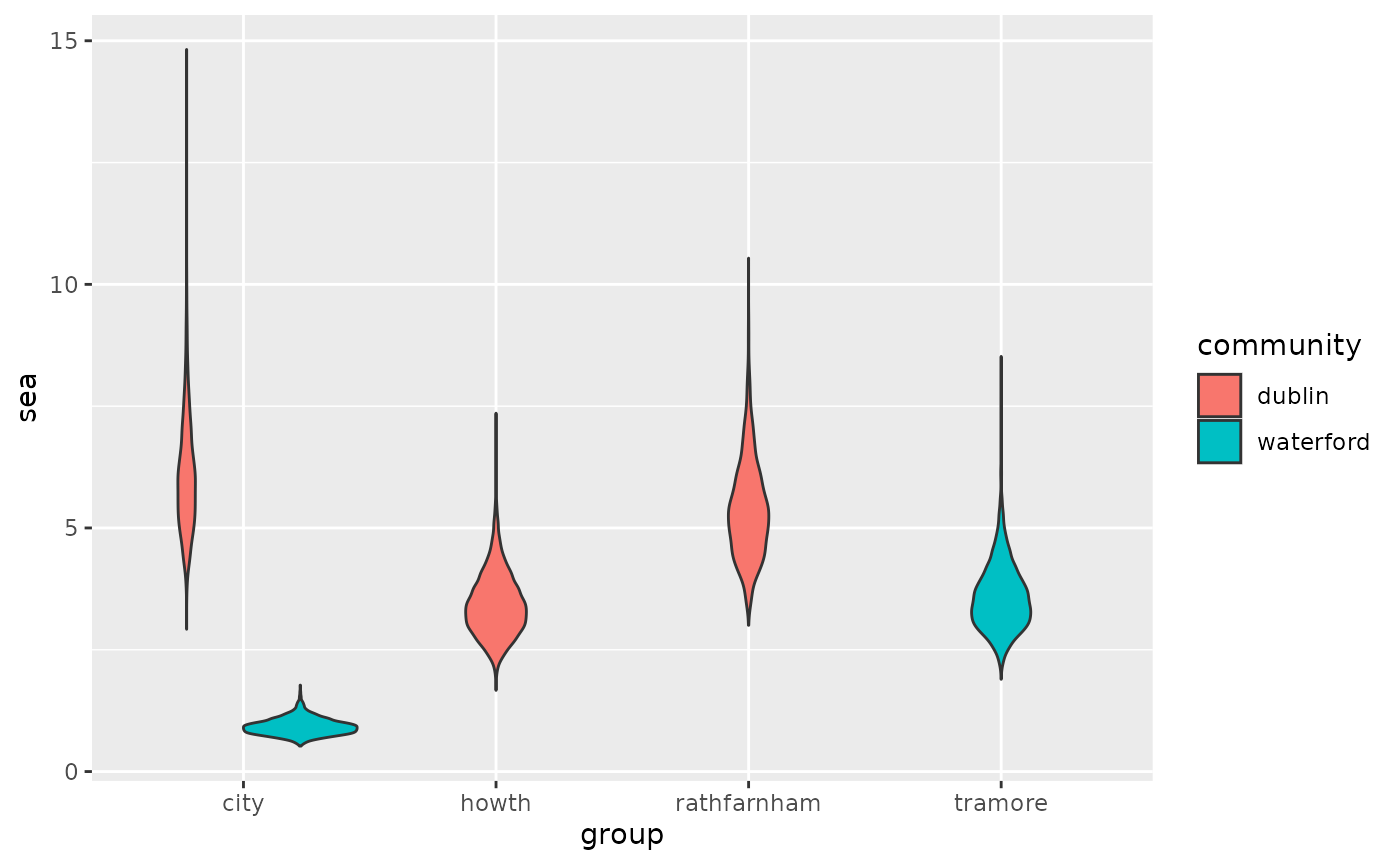
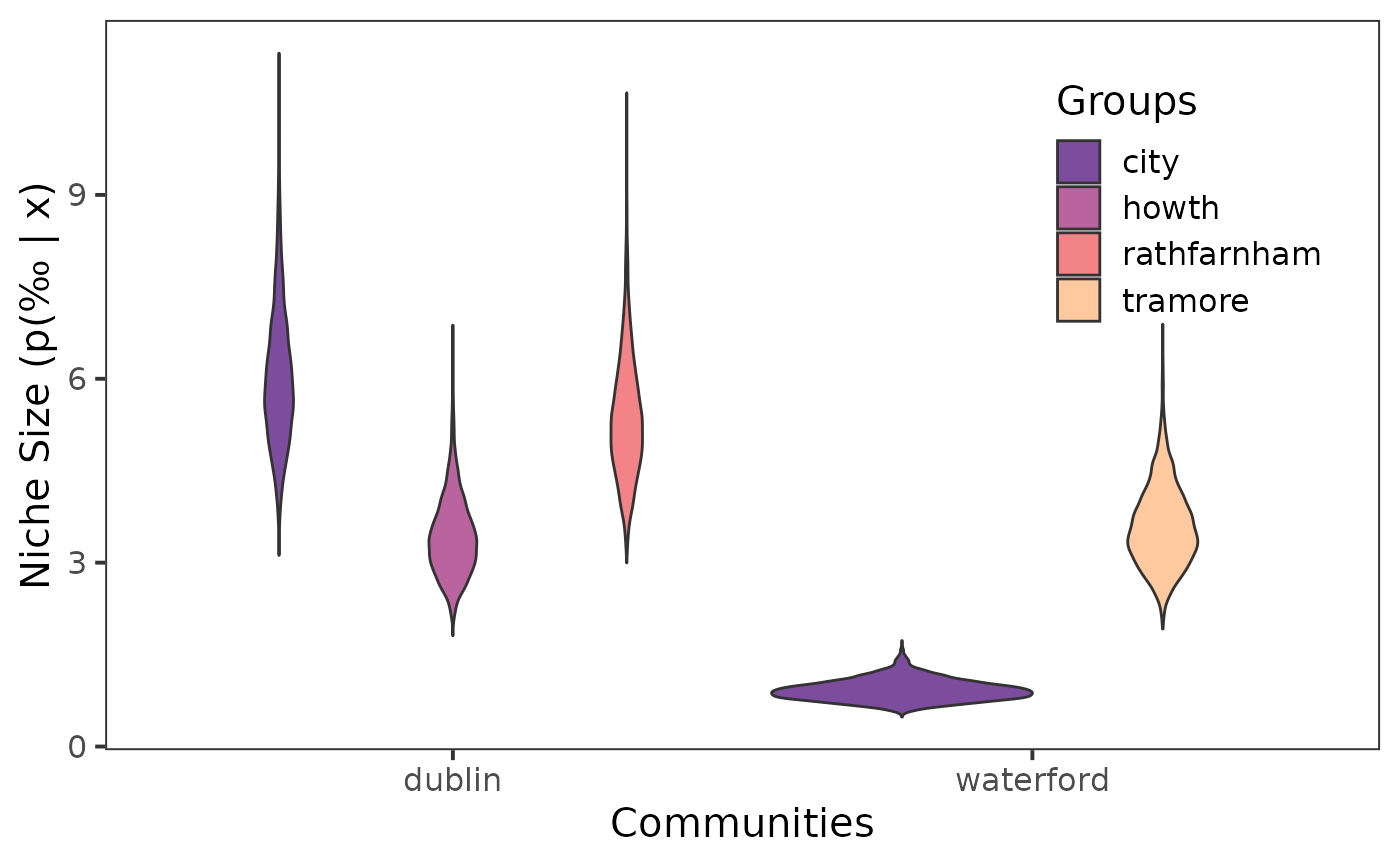
Deploying to gh-pages from @ benjaminhlina/nichetools@6e85442058f15033ed43161ef7a99a19c027c894 🚀

diff --git a/articles/using-nichetools-with-the-package-SIBER.html b/articles/using-nichetools-with-the-package-SIBER.html
@@ -399,17 +399,39 @@ level of the ellipse you can do so using the argument
 <div class="section level3">
 <h3 id="extract-niche-size">Extract Niche Size<a class="anchor" aria-label="anchor" href="#extract-niche-size"></a>
 </h3>
+<p>We can use <code><a href="https://rdrr.io/pkg/SIBER/man/siberEllipses.html" class="external-link">siberEllipses()</a></code> from {SIBER} to estimate
+niche size for each posterior sample for each community and group.</p>
 <div class="sourceCode" id="cb17"><pre class="downlit sourceCode r">
 <code class="sourceCode R"><span><span class="va">sea_b</span> <span class="op">&lt;-</span> <span class="fu"><a href="https://rdrr.io/pkg/SIBER/man/siberEllipses.html" class="external-link">siberEllipses</a></span><span class="op">(</span>corrected.posteriors <span class="op">=</span> <span class="va">ellipses_posterior</span><span class="op">)</span></span></code></pre></div>
+<p>Next using <code><a href="../reference/extract_niche_size.html">extract_niche_size()</a></code> from {nichetools} we can
+extract niche size which will also add in the correct names for the
+community and groups we are working with.</p>
 <div class="sourceCode" id="cb18"><pre class="downlit sourceCode r">
 <code class="sourceCode R"><span><span class="va">seb_convert</span> <span class="op">&lt;-</span> <span class="fu"><a href="../reference/extract_niche_size.html">extract_niche_size</a></span><span class="op">(</span>data <span class="op">=</span> <span class="va">sea_b</span>,</span>
 <span>                                  pkg <span class="op">=</span> <span class="st">"SIBER"</span>,</span>
 <span>                                  community_df <span class="op">=</span> <span class="va">cg_names</span><span class="op">)</span></span></code></pre></div>
+<p>Lastly, we can visualize the extracted niche sizes using
+{ggplot2}.</p>
 <div class="sourceCode" id="cb19"><pre class="downlit sourceCode r">
-<code class="sourceCode R"><span><span class="fu"><a href="https://ggplot2.tidyverse.org/reference/ggplot.html" class="external-link">ggplot</a></span><span class="op">(</span>data <span class="op">=</span> <span class="va">seb_convert</span>, <span class="fu"><a href="https://ggplot2.tidyverse.org/reference/aes.html" class="external-link">aes</a></span><span class="op">(</span>x <span class="op">=</span> <span class="va">group</span>,</span>
+<code class="sourceCode R"><span><span class="fu"><a href="https://ggplot2.tidyverse.org/reference/ggplot.html" class="external-link">ggplot</a></span><span class="op">(</span>data <span class="op">=</span> <span class="va">seb_convert</span>, <span class="fu"><a href="https://ggplot2.tidyverse.org/reference/aes.html" class="external-link">aes</a></span><span class="op">(</span>x <span class="op">=</span> <span class="va">community</span>,</span>
 <span>                               y <span class="op">=</span> <span class="va">sea</span>,</span>
-<span>                               fill <span class="op">=</span> <span class="va">community</span><span class="op">)</span><span class="op">)</span> <span class="op">+</span></span>
-<span>  <span class="fu"><a href="https://ggplot2.tidyverse.org/reference/geom_violin.html" class="external-link">geom_violin</a></span><span class="op">(</span><span class="op">)</span></span></code></pre></div>
+<span>                               fill <span class="op">=</span> <span class="va">group</span><span class="op">)</span><span class="op">)</span> <span class="op">+</span></span>
+<span>  <span class="fu"><a href="https://ggplot2.tidyverse.org/reference/geom_violin.html" class="external-link">geom_violin</a></span><span class="op">(</span><span class="op">)</span> <span class="op">+</span> </span>
+<span>  <span class="fu"><a href="https://ggplot2.tidyverse.org/reference/scale_viridis.html" class="external-link">scale_fill_viridis_d</a></span><span class="op">(</span>option <span class="op">=</span> <span class="st">"A"</span>, begin <span class="op">=</span> <span class="fl">0.25</span>, end <span class="op">=</span> <span class="fl">0.85</span>,</span>
+<span>                         name <span class="op">=</span> <span class="st">"Groups"</span>, alpha <span class="op">=</span> <span class="fl">0.75</span><span class="op">)</span> <span class="op">+</span> </span>
+<span>  <span class="fu"><a href="https://ggplot2.tidyverse.org/reference/ggtheme.html" class="external-link">theme_bw</a></span><span class="op">(</span></span>
+<span>    base_size <span class="op">=</span> <span class="fl">15</span></span>
+<span>  <span class="op">)</span> <span class="op">+</span> </span>
+<span>  <span class="fu"><a href="https://ggplot2.tidyverse.org/reference/theme.html" class="external-link">theme</a></span><span class="op">(</span></span>
+<span>    strip.background <span class="op">=</span> <span class="fu"><a href="https://ggplot2.tidyverse.org/reference/element.html" class="external-link">element_blank</a></span><span class="op">(</span><span class="op">)</span>,</span>
+<span>    panel.grid <span class="op">=</span> <span class="fu"><a href="https://ggplot2.tidyverse.org/reference/element.html" class="external-link">element_blank</a></span><span class="op">(</span><span class="op">)</span>, </span>
+<span>    legend.position <span class="op">=</span> <span class="st">"inside"</span>,</span>
+<span>    legend.background <span class="op">=</span> <span class="fu"><a href="https://ggplot2.tidyverse.org/reference/element.html" class="external-link">element_blank</a></span><span class="op">(</span><span class="op">)</span>, </span>
+<span>    legend.position.inside <span class="op">=</span> <span class="fu"><a href="https://rdrr.io/r/base/c.html" class="external-link">c</a></span><span class="op">(</span><span class="fl">0.85</span>, <span class="fl">0.75</span><span class="op">)</span></span>
+<span>  <span class="op">)</span> <span class="op">+</span> </span>
+<span>  <span class="fu"><a href="https://ggplot2.tidyverse.org/reference/labs.html" class="external-link">labs</a></span><span class="op">(</span></span>
+<span>    x <span class="op">=</span> <span class="st">"Communities"</span>, </span>
+<span>    y <span class="op">=</span> <span class="st">"Niche Size (p(‰ | x)"</span><span class="op">)</span> </span></code></pre></div>
 <p><img src="using-nichetools-with-the-package-SIBER_files/figure-html/unnamed-chunk-20-1.png" width="700"></p>
 </div>
 <div class="section level3">

diff --git a/reference/niche_ellipse.html b/reference/niche_ellipse.html
@@ -133,7 +133,7 @@ and <code><a href="extract_sigma.html">extract_sigma()</a></code></p></div>
     <h2 id="ref-examples">Examples<a class="anchor" aria-label="anchor" href="#ref-examples"></a></h2>
     <div class="sourceCode"><pre class="sourceCode r"><code><span class="r-in"><span><span class="fu">niche_ellipse</span><span class="op">(</span>dat_mu <span class="op">=</span> <span class="va">mu_est_long</span>,</span></span>
 <span class="r-in"><span>              dat_sigma <span class="op">=</span> <span class="va">sigma_est_wide</span><span class="op">)</span></span></span>
-<span class="r-msg co"><span class="r-pr">#&gt;</span> → Total time processing was 0.08 secs</span>
+<span class="r-msg co"><span class="r-pr">#&gt;</span> → Total time processing was 0.06 secs</span>
 <span class="r-out co"><span class="r-pr">#&gt;</span> <span style="color: #949494;"># A tibble: 4,000 × 4</span></span>
 <span class="r-out co"><span class="r-pr">#&gt;</span>    sample_name sample_number  d13c  d15n</span>
 <span class="r-out co"><span class="r-pr">#&gt;</span>    <span style="color: #949494; font-style: italic;">&lt;chr&gt;</span>               <span style="color: #949494; font-style: italic;">&lt;dbl&gt;</span> <span style="color: #949494; font-style: italic;">&lt;dbl&gt;</span> <span style="color: #949494; font-style: italic;">&lt;dbl&gt;</span></span>
